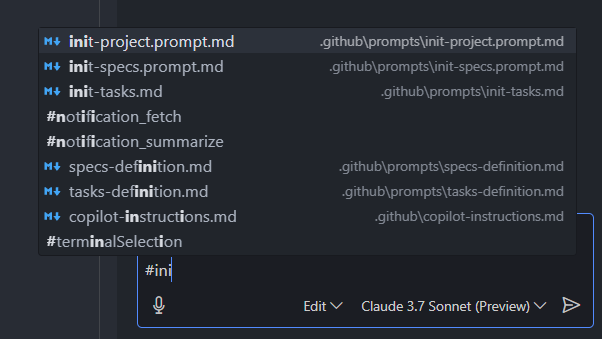
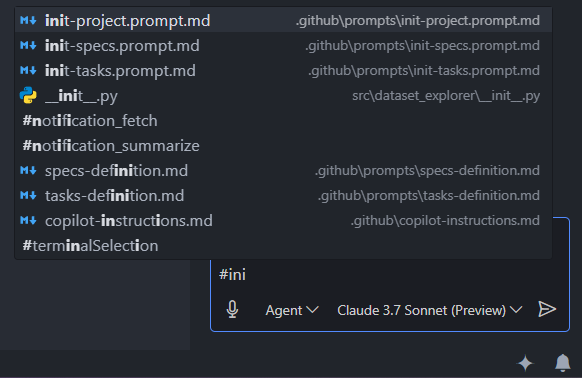
docs

diff --git a/docs/copilot.md b/docs/copilot.md
@@ -1,21 +1,38 @@
+# Getting Started with Pilot Rules Copilot
 
-Step 1 
-Open an empty folder in VSCode
+This guide will walk you through setting up and using the Pilot Rules Copilot in VSCode.
 
-Step 2 
-uvx pilot-rules --copilot in terminal 
-img/copilot_1.png
+## Prerequisites
+- Visual Studio Code
+- Terminal access
 
+## Setup Instructions
 
-Step 3 
-Open Copilot in Edits mode with either "Edit" or "Agent"
-img/copilot_2.png
-use Sonnet 3.7 or o3-mini as model
+### 1. Initial Setup
+1. Open an empty folder in Visual Studio Code
+2. In your terminal, run:
+   ```bash
+   uvx pilot-rules --copilot
+   ```
+   ![Copilot Terminal Setup](img/copilot_1.png)
 
-step 4
-start typing "#init...." and select the init-project rule and send
-img/copilot_3.png
+### 2. Configure Copilot
+1. Open Copilot in "Agents Mode"
+2. Select Sonnet 3.7 as your model
+   ![Opening Copilot Agents Mode](img/copilot_2.png)
 
-copilot will create the folder structure based on the rules
-img/copilot_4.png
+### 3. Initialize Project
+1. Begin typing "#init..." in the Copilot chat
+2. Select the init-project rule from the suggestions
+3. Send your selection
+   ![Initializing Project](img/copilot_3.png)
+
+### 4. Project Generation
+Copilot will automatically create the folder structure based on the defined rules.
+
+![Folder Structure Creation](img/copilot_4.png)
+![Final Project Structure](img/copilot_5.png)
+
+---
+*Note: Make sure to follow each step in order to properly set up your project with Pilot Rules Copilot.*
 
